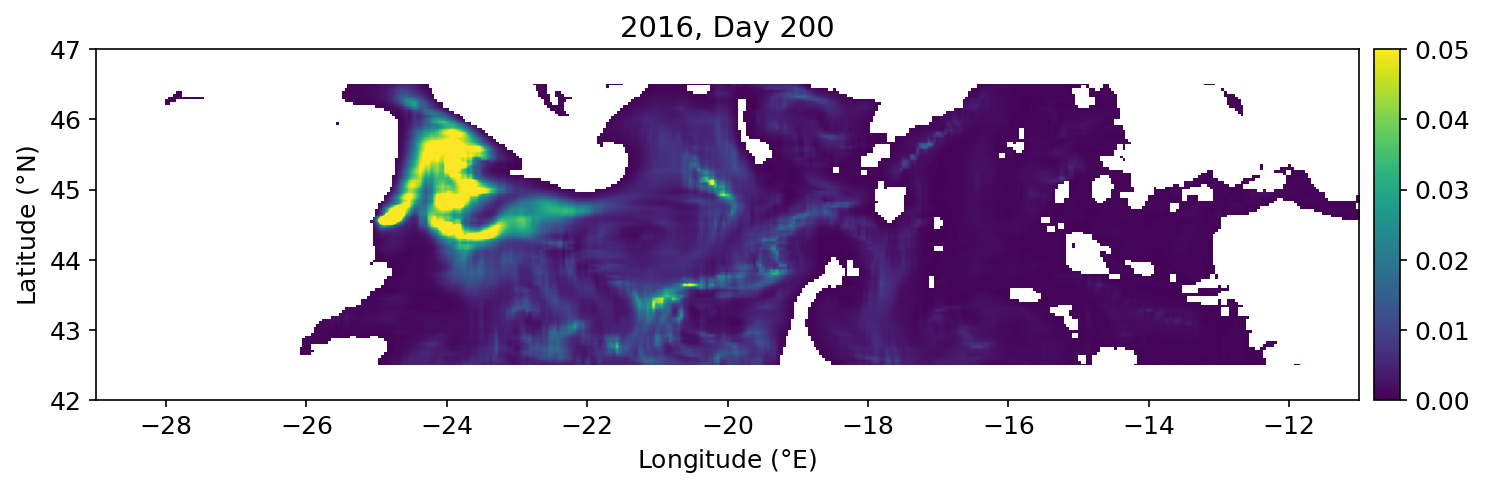
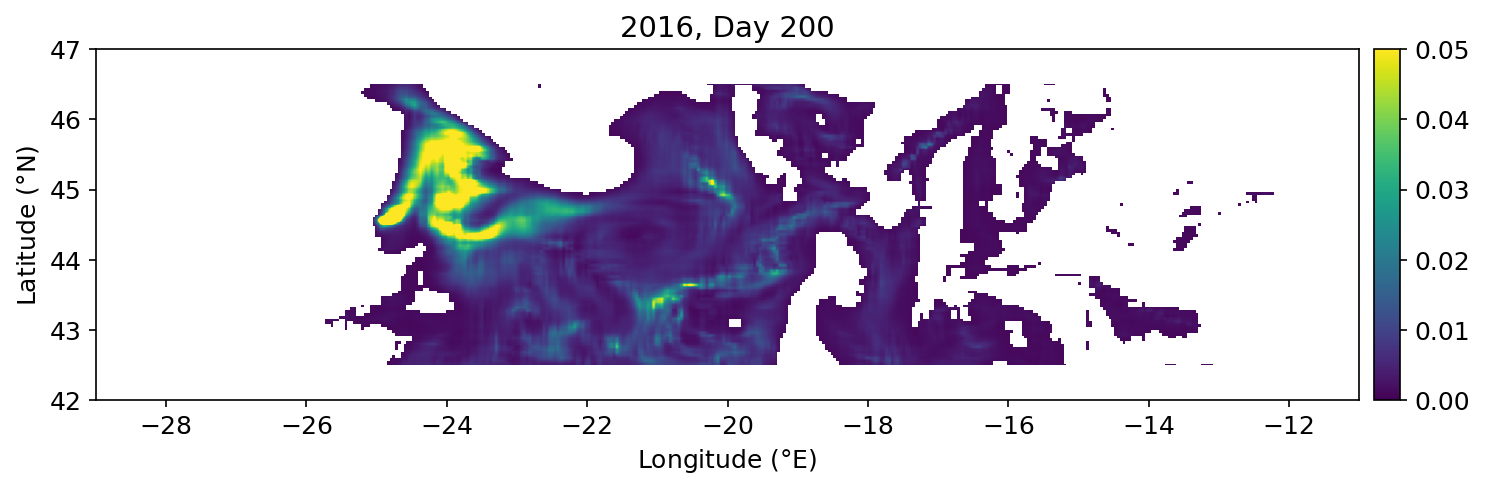
Update IC

diff --git a/discrete_model/RWinVF-2016.py b/discrete_model/RWinVF-2016.py
@@ -120,7 +120,7 @@ paths.append([])
 start_frames.append(0)  # Frame when this turtle starts walking
   
 for i in range(N_simulation_days+1):
-    if i < 300:
+    if i < 366:
         for _ in range(N_released_per_day):
             tutel = Walker(
                 init_position=startpos,

diff --git a/discrete_model/RWinVF-2019.py b/discrete_model/RWinVF-2019.py
@@ -109,7 +109,7 @@ paths.append([])
 start_frames.append(0)  # Frame when this turtle starts walking
   
 for i in range(N_simulation_days+1):
-    if i < 300:
+    if i < 366:
         for _ in range(N_released_per_day):
             tutel = Walker(
                 init_position=startpos,

diff --git a/discrete_model/RWinVF-2021.py b/discrete_model/RWinVF-2021.py
@@ -109,7 +109,7 @@ paths.append([])
 start_frames.append(0)  # Frame when this turtle starts walking
   
 for i in range(N_simulation_days+1):
-    if i < 300:
+    if i < 366:
         for _ in range(N_released_per_day):
             tutel = Walker(
                 init_position=startpos,

diff --git a/discrete_model/RWinVF-2023.py b/discrete_model/RWinVF-2023.py
@@ -109,7 +109,7 @@ paths.append([])
 start_frames.append(0)  # Frame when this turtle starts walking
   
 for i in range(N_simulation_days+1):
-    if i < 300:
+    if i < 366:
         for _ in range(N_released_per_day):
             tutel = Walker(
                 init_position=startpos,

diff --git a/discrete_model/RWinVF-2020.py b/discrete_model/RWinVF-2020.py
@@ -107,7 +107,7 @@ paths.append([])
 start_frames.append(0)  # Frame when this turtle starts walking
   
 for i in range(N_simulation_days):
-    if i < 300:
+    if i < 366:
         for _ in range(N_released_per_day):
             tutel = Walker(
                 init_position=startpos,

diff --git a/discrete_model/RWinVF-2022.py b/discrete_model/RWinVF-2022.py
@@ -107,7 +107,7 @@ paths.append([])
 start_frames.append(0)  # Frame when this turtle starts walking
   
 for i in range(N_simulation_days):
-    if i < 300:
+    if i < 366:
         for _ in range(N_released_per_day):
             tutel = Walker(
                 init_position=startpos,

diff --git a/discrete_model/RWinVF-2024.py b/discrete_model/RWinVF-2024.py
@@ -98,7 +98,7 @@ paths.append([])
 start_frames.append(0)  # Frame when this turtle starts walking
   
 for i in range(N_simulation_days):
-    if i < 300:
+    if i < 366:
         for _ in range(N_released_per_day):
             tutel = Walker(
                 init_position=startpos,
